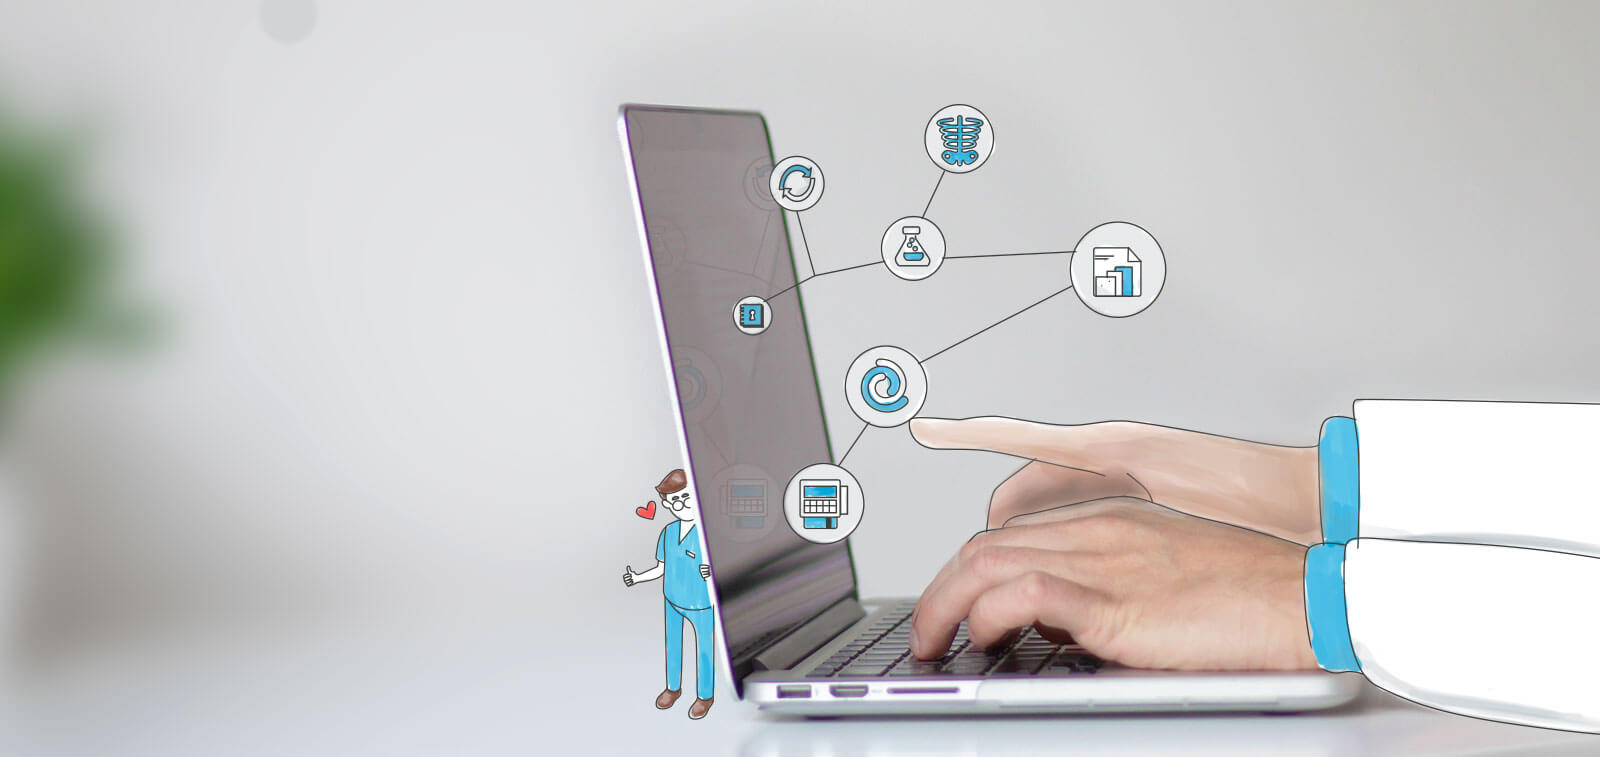
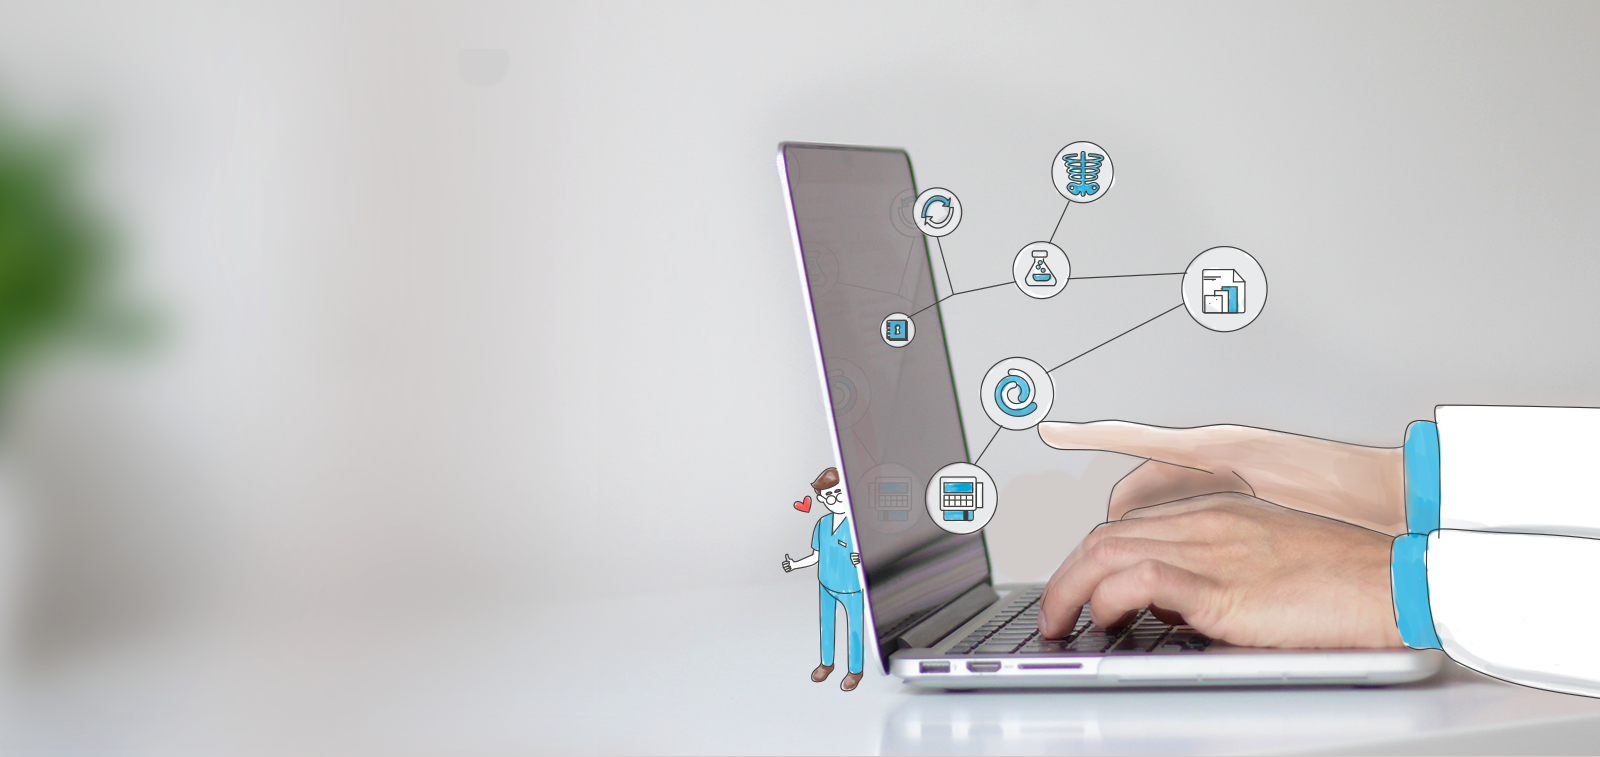
Replaced pricing bg

diff --git a/src/components/pricing/panel-1.vue b/src/components/pricing/panel-1.vue
@@ -29,7 +29,8 @@
     height: auto;
     background-image: url('../../assets/images/v4/mycure-pricing-best-investment-yet-laptop-drawing.jpg');
     background-repeat: no-repeat;
-    background-size: cover;
+    background-size: contain;
+    background-position: center;
   }
 
   .container {
